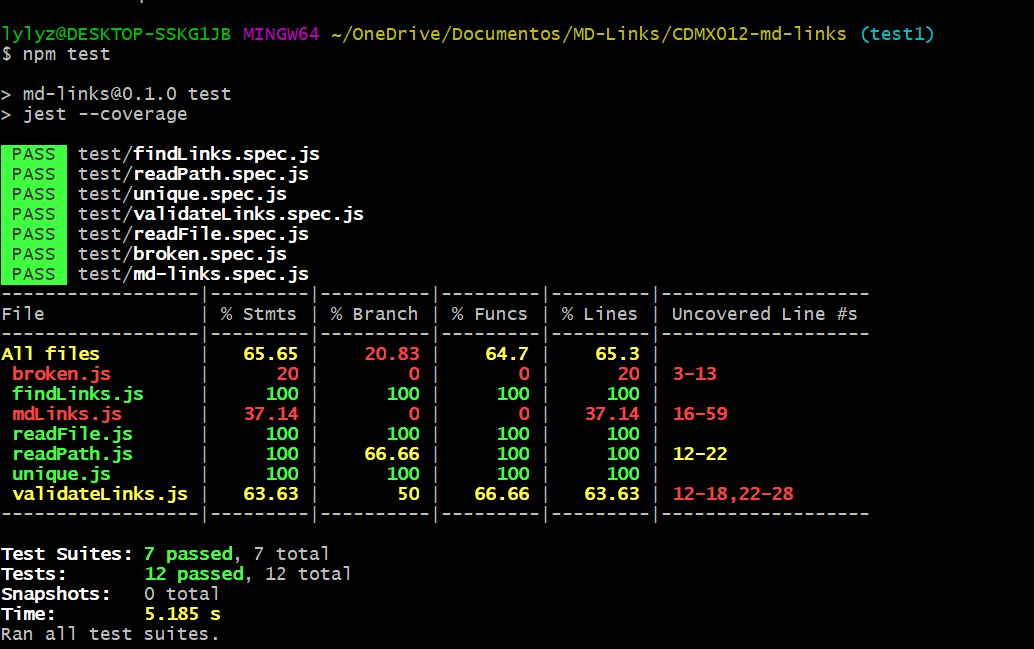
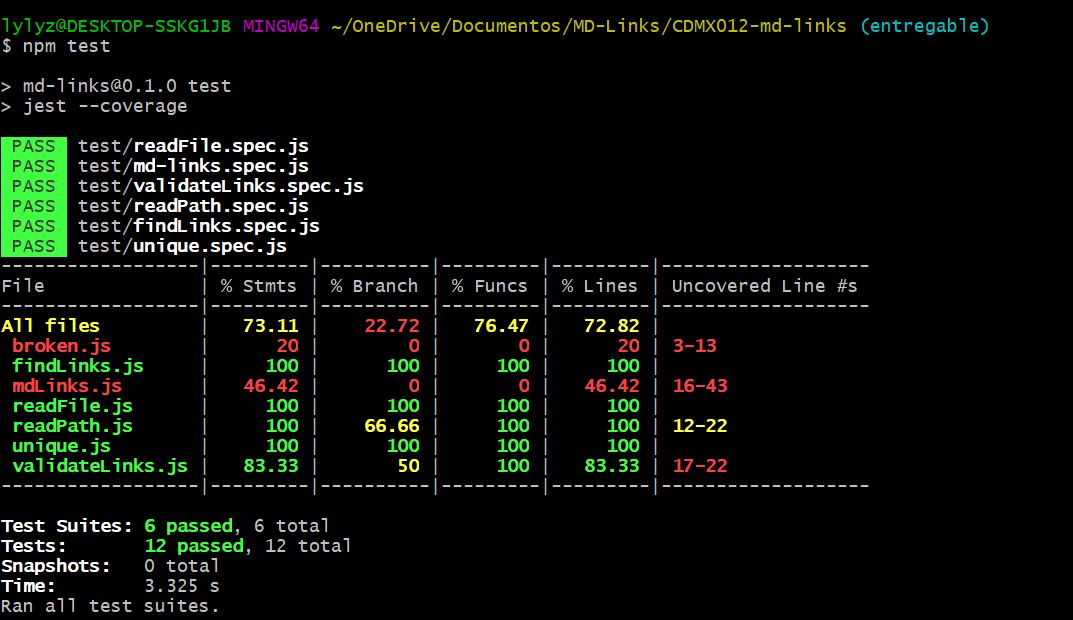
Entregable PFB

diff --git a/test/validateLinks.spec.js b/test/validateLinks.spec.js
@@ -1,65 +1,84 @@
 const validateLinks = require("../components/validateLinks.js");
+const axios = require ('axios');
+jest.mock('axios');
 
 describe("validateLinks", () => {
   it("is a function", () => {
     expect(typeof validateLinks).toBe("function");
   });
 
-  it("Read pathName if is directory convert to absolute path", () => {
+  it("Read array and return status ok", () => {
     const arrayOutput = [
       {
         href: 'https://www.youtube.com/watch?v=HXWzPx8kjiY',
-        text: 'fileL3_1 Intro test con dom',
-        file: 'C:\\Users\\lylyz\\OneDrive\\Documentos\\MD-Links\\CDMX012-md-links\\FilesL1_1\\FilesL2\\FilesL3\\fileL3_1.md'
-      },
-      {
-        href: 'https://github.com/promise-it-wont-hurt',
-        text: 'fileL3_1 promise-it-wont-hurt',
-        file: 'C:\\Users\\lylyz\\OneDrive\\Documentos\\MD-Links\\CDMX012-md-links\\FilesL1_1\\FilesL2\\FilesL3\\fileL3_1.md'
-      },
-      {
-        href: 'https://github.com/promise-it-wont-hurt',
-        text: 'fileL3_1 promise-it-wont-hurt',
-        file: 'C:\\Users\\lylyz\\OneDrive\\Documentos\\MD-Links\\CDMX012-md-links\\FilesL1_1\\FilesL2\\FilesL3\\fileL3_1.md'
-      },
-      {
-        href: 'https://github.com/worshopper/learnyounode',
-        text: 'learnyounode',
+        text: 'fileL4_1 Intro test con dom',
         file: 'C:\\Users\\lylyz\\OneDrive\\Documentos\\MD-Links\\CDMX012-md-links\\FilesL1_1\\FilesL2\\FilesL3\\FilesL4\\fileL4_1.md'
       }
     ]
     
-    expect(validateLinks(arrayOutput)).toEqual[
+    
+      const resolveArray =  [
+        {
+          href: 'https://www.youtube.com/watch?v=HXWzPx8kjiY',
+          text: 'fileL4_1 Intro test con dom',
+          file: 'C:\\Users\\lylyz\\OneDrive\\Documentos\\MD-Links\\CDMX012-md-links\\FilesL1_1\\FilesL2\\FilesL3\\FilesL4\\fileL4_1.md',
+          statusCode: 200,
+          OK: 'OK'
+        }
+      ] 
+      
+    
+    axios.get.mockResolvedValue(resolveArray);
+    return validateLinks(arrayOutput).then(data => expect(data).toEqual
+    [
       {
         href: 'https://www.youtube.com/watch?v=HXWzPx8kjiY',
-        text: 'fileL3_1 Intro test con dom',
-        file: 'C:\\Users\\lylyz\\OneDrive\\Documentos\\MD-Links\\CDMX012-md-links\\FilesL1_1\\FilesL2\\FilesL3\\fileL3_1.md',
+        text: 'fileL4_1 Intro test con dom',
+        file: 'C:\\Users\\lylyz\\OneDrive\\Documentos\\MD-Links\\CDMX012-md-links\\FilesL1_1\\FilesL2\\FilesL3\\FilesL4\\fileL4_1.md',
         statusCode: 200,
         OK: 'OK'
-      },
-      {
-        href: 'https://github.com/promise-it-wont-hurt',
-        text: 'fileL3_1 promise-it-wont-hurt',
-        file: 'C:\\Users\\lylyz\\OneDrive\\Documentos\\MD-Links\\CDMX012-md-links\\FilesL1_1\\FilesL2\\FilesL3\\fileL3_1.md',
-        status: 404,
-        ok: 'fail'
-      },
-      {
-        href: 'https://github.com/promise-it-wont-hurt',
-        text: 'fileL3_1 promise-it-wont-hurt',
-        file: 'C:\\Users\\lylyz\\OneDrive\\Documentos\\MD-Links\\CDMX012-md-links\\FilesL1_1\\FilesL2\\FilesL3\\fileL3_1.md',
-        status: 404,
-        ok: 'fail'
-      },
-      {
-        href: 'https://github.com/worshopper/learnyounode',
-        text: 'learnyounode',
-        file: 'C:\\Users\\lylyz\\OneDrive\\Documentos\\MD-Links\\CDMX012-md-links\\FilesL1_1\\FilesL2\\FilesL3\\FilesL4\\fileL4_1.md',
-        status: 404,
-        ok: 'fail'
       }
-    ];
-    
-    
+    ]); 
+
   });
+
+    it("Read array and return status fail", () => {
+      const arrayOutput = [
+        {
+          href: 'https://www.youtube.com/wach?v=HXWzPx8kjiY',
+          text: 'fileL4_1 Intro test con dom',
+          file: 'C:\\Users\\lylyz\\OneDrive\\Documentos\\MD-Links\\CDMX012-md-links\\FilesL1_1\\FilesL2\\FilesL3\\FilesL4\\fileL4_1.md'
+        }
+      ]
+      
+      
+        const rejectArray =  [
+          {
+            href: 'https://www.youtube.com/wach?v=HXWzPx8kjiY',
+            text: 'fileL4_1 Intro test con dom',
+            file: 'C:\\Users\\lylyz\\OneDrive\\Documentos\\MD-Links\\CDMX012-md-links\\FilesL1_1\\FilesL2\\FilesL3\\FilesL4\\fileL4_1.md',
+            status: 404,
+            ok: 'fail'
+          }
+        ] 
+        
+      
+      axios.get.mockRejectedValue(rejectArray);
+      return validateLinks(arrayOutput).then(data => expect(data).toEqual
+      [
+        {
+          href: 'https://www.youtube.com/wach?v=HXWzPx8kjiY',
+          text: 'fileL4_1 Intro test con dom',
+          file: 'C:\\Users\\lylyz\\OneDrive\\Documentos\\MD-Links\\CDMX012-md-links\\FilesL1_1\\FilesL2\\FilesL3\\FilesL4\\fileL4_1.md',
+          statusCode: 404,
+          OK: 'fail'
+        }
+      ]); 
+  
+    
+    });
+
+  
+
+   
 });

diff --git a/Components/mdLinks.js b/Components/mdLinks.js
@@ -14,42 +14,33 @@ const options2 = process.argv[4];
 
 function mdLinks() {
   return new Promise((resolve, reject) => {
-      let readPathName = readPath(pathName);
-      let readAllFiles = readFile(readPathName);
-      let findLinksFiles = findLinks(readAllFiles, readPathName);
-      let UniqueLinks = unique(findLinksFiles);
-      let validateLinksFiles = findLinksFiles.map((element) =>
-      validateLinks(element));
-     //let brokenLinks = Promise.all(validateLinksFiles)
-   // let brokenLinks = findLinksFiles.map((element) =>
-    //broken(element));
-   //console.log(brokenLinks);
-     
-      if (options1 && options2 ) {
-          resolve(
-            "Total: " +
-              findLinksFiles.length +
-              " " +
-              "Unique: " +
-              UniqueLinks +
-              " " +
-              "Broken: " +
-              '3'
-              //brokenLinks.ok
-         );  
-       
-       
-      } else if (options1 === "--validate") {
-        resolve(Promise.all(validateLinksFiles));
-      } else if (options1 === "--stats") {
-        resolve(
-          "Total: " + findLinksFiles.length + " " + "Unique: " + UniqueLinks
-        );
-      } else if (!options1 && !options2) {
-        resolve(findLinksFiles);
-      
-      }
-     reject("Error")
+    let readPathName = readPath(pathName);
+    let readAllFiles = readFile(readPathName);
+    let findLinksFiles = findLinks(readAllFiles, readPathName);
+    let UniqueLinks = unique(findLinksFiles);
+    let validateLinksFiles = validateLinks(findLinksFiles);
+
+    if (options1 && options2) {
+      resolve(
+        "Total: " +
+          findLinksFiles.length +
+          " " +
+          "Unique: " +
+          UniqueLinks +
+          " " +
+          "Broken: " +
+          "3"
+      );
+    } else if (options1 === "--validate") {
+      resolve(validateLinksFiles);
+    } else if (options1 === "--stats") {
+      resolve(
+        "Total: " + findLinksFiles.length + " " + "Unique: " + UniqueLinks
+      );
+    } else if (!options1 && !options2) {
+      resolve(findLinksFiles);
+    }
+    reject("Error");
   });
 }
 

diff --git a/Components/validateLinks.js b/Components/validateLinks.js
@@ -1,53 +1,35 @@
-const { array } = require("yargs");
-
 const axios = require("axios").default;
 
 function validateLinks(arrayOutput) {
-//let i = 0;
-//do{
-// let mapPromise = arrayOutput.map((i)=>{
-   return axios
-      .get(arrayOutput.href)
+  const arrayOutputStatus1 = arrayOutput.map((element) => {
+    return axios
+      .get(element.href)
       .then((response) => {
         const arrayOutputStatus = {
-          ...arrayOutput,
+          ...element,
           statusCode: response.status,
           OK: response.statusText,
         };
-        //console.log(arrayOutputStatus);
         return arrayOutputStatus;
       })
       .catch((err) => {
         if (err.response) {
           const arrayOutputStatus = {
-            ...arrayOutput,
+            ...element,
             status: err.response.status,
             ok: "fail",
           };
-          //console.log(arrayOutputStatus);
-         return arrayOutputStatus;
+          return arrayOutputStatus;
         } else {
           const arrayOutputStatus = {
-            ...arrayOutput,
+            ...element,
             status: "Deprecated",
             ok: "fail",
-          }
-          //console.log(arrayOutputStatus);
+          };
           return arrayOutputStatus;
         }
-    
-      
-    });
-
-   //let newResult = Promise.all(validateLinks)
-    //console.log ('soy', newResult);
-    //return newResult;
-  //}); 
-   // i++
-  //}while(i<arrayOutput.length)
-      
-    }
-
-
-
+      });
+  });
+  return Promise.all(arrayOutputStatus1);
+}
 module.exports = validateLinks;

diff --git a/test/readFile.spec.js b/test/readFile.spec.js
@@ -14,6 +14,6 @@ describe('readFile', () => {
           '* [fileL3_1 promise-it-wont-hurt](https://github.com/promise-it-wont-hurt)\r\n' +
           '* [fileL3_1 promise-it-wont-hurt](https://github.com/promise-it-wont-hurt)\r\n',
         'Archivo fileL4_1.md\r\n' +
-          '* [learnyounode](https://github.com/worshopper/learnyounode)\r\n'])
+        '* [fileL4_1 Intro test con dom](https://www.youtube.com/watch?v=HXWzPx8kjiY)\r\n'])
         });
   })

diff --git a/FilesL1_1/FilesL2/FilesL3/FilesL4/fileL4_1.md b/FilesL1_1/FilesL2/FilesL3/FilesL4/fileL4_1.md
@@ -1,2 +1,2 @@
 Archivo fileL4_1.md
-* [learnyounode](https://github.com/worshopper/learnyounode)
+* [fileL4_1 Intro test con dom](https://www.youtube.com/watch?v=HXWzPx8kjiY)
